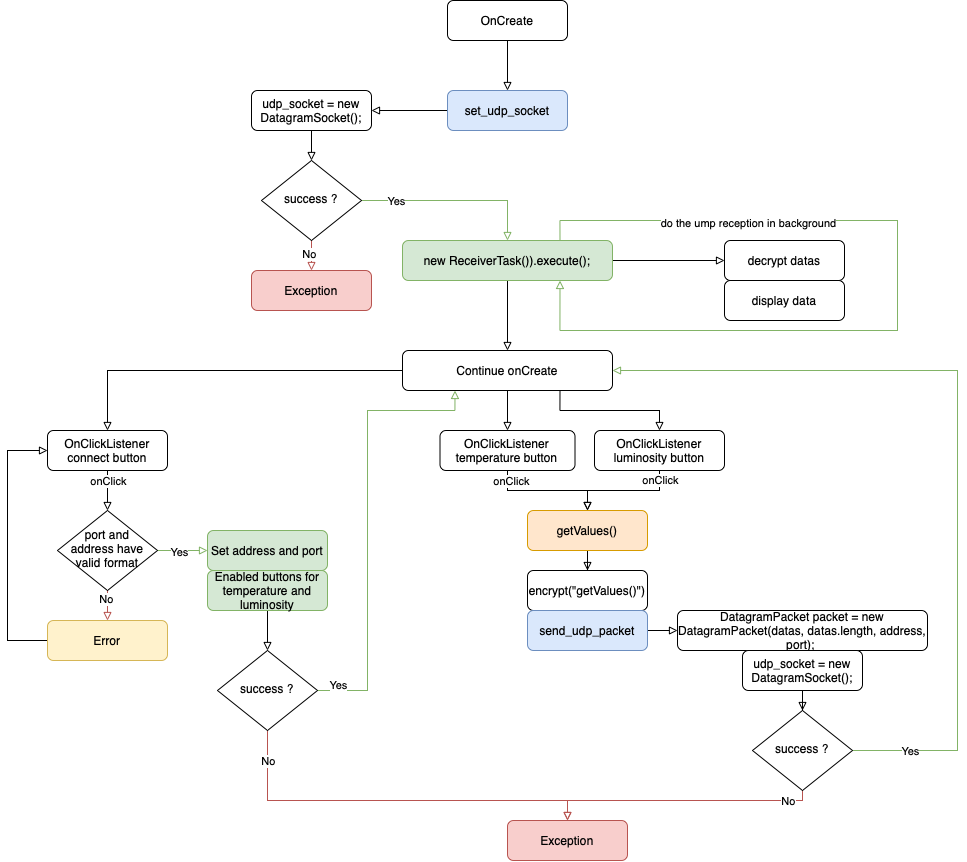
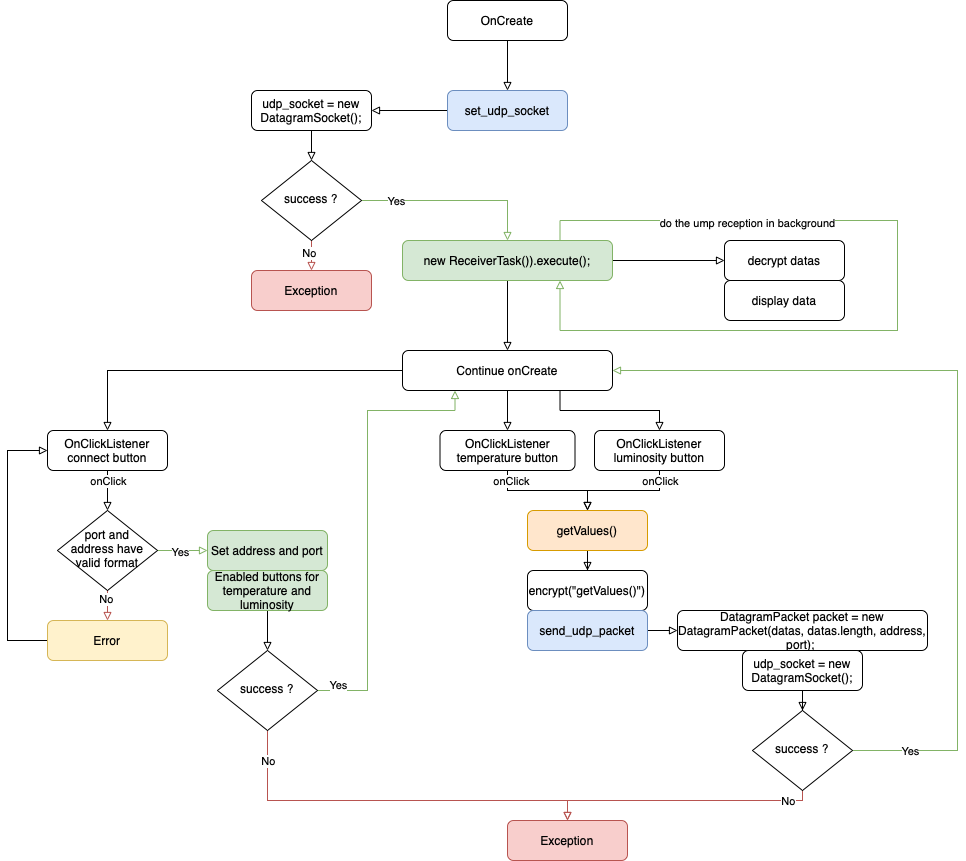
Add files via upload

diff --git a/README.md b/README.md
@@ -10,13 +10,13 @@ Nous n'avons pas suivi d'architecture spéciale pour ce projet, nous avons simpl
 
 ## Interface Homme Machine
 
-![Untitled Diagram.drawio.png](readme_lib/Untitled_Diagram.drawio.png)
+![Java_IHM.png](readme_lib/Java_IHM.png)
 
 ## Programme Java
 
 ### Déroulement
 
-![Java process.png](readme_lib/Java_process.png)
+![Java_process.png](readme_lib/Java_process.png)
 
 Ce schéma présente le fonctionnement de notre application Android. Résumé du déroulement dans un cas sans problème :
 
@@ -36,7 +36,7 @@ Ce schéma présente le fonctionnement de notre application Android. Résumé du
     2. Reçoit les données dans l'ordre d'affichage demandé 
     
 
-![Capture d’écran 2021-11-30 à 16.25.27.png](readme_lib/Capture_decran_2021-11-30_a_16.25.27.png)
+![IHM.png](readme_lib/IHM.png)
 
 ### Conception
 
